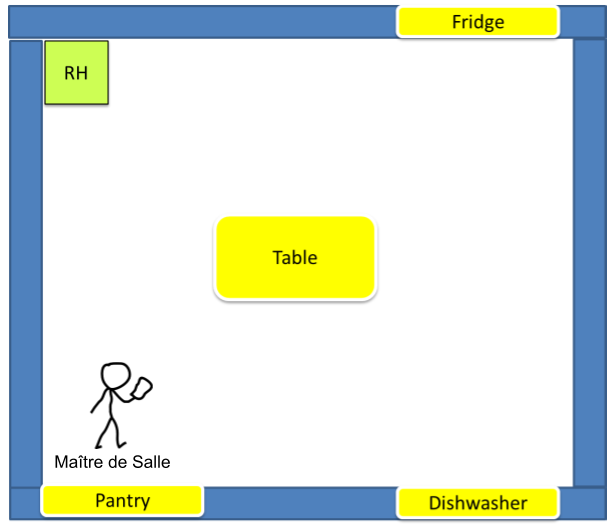
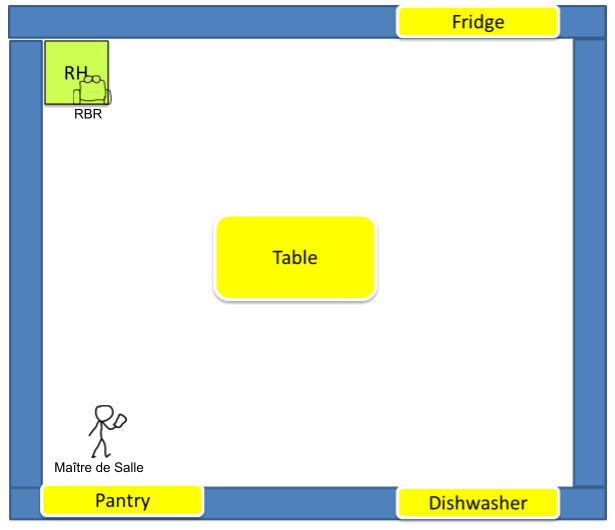
update tasks representations in scenario in Requirements Analysis

Changed region(s): [[0.0927, 0.6642, 0.278, 0.9057], [0.1236, 0.1208, 0.1854, 0.2415]]

diff --git a/userDocs/Analisi.html b/userDocs/Analisi.html
@@ -188,46 +188,40 @@ Test sugli stati delle entità ad ogni transizione del sistema.
 </ul>
 
 
-<h4>Scenario and Test Plans</h4>
+<h4>Scenario</h4>
 
-Here, it's illustrated a possible scenario of the system and a first planning of tests, that must be verified for the correct working of the final system, according to the requirements provided by the customer.
+Here, it's illustrated a possible scenario of the system.
 <br><br>
 <table>
 <tr>
 <th>Steps in the scenario</th>
 <th>Simplified representation of each step</th>
-<th>Test Plans for each step</th>
 </tr>
 <tr>
-	<td class="scenario"><ol><li>The <ks>room</ks> is empty, beside the <ks>Maître de Salle</ks>. The <ks>RBR</ks> is on its <ks>RH</ks>. The <ks>fridge</ks> and the <ks>pantry</ks> are embedded with a proper set of items; while the <ks>dishwasher</ks> is empty.</li></ol></td>
-	<td class="image"><img src="./utils/img/InitialScenario.png" alt="Initial scenario"></td>
-	<td>For this step, it's necessary to verify/test/check that/if the <ks>RBR</ks> is positioned on (the cell of???) its <ks>RH</ks>. (BISOGNA TESTARE LO STATO ANCHE DEGLI ALTRI ELEMENTI DELLA STRANZA??????)</td>
+	<td><ol><li>The <ks>room</ks> is empty, beside the <ks>Maître de Salle</ks>. The <ks>RBR</ks> is on its <ks>RH</ks>. The <ks>fridge</ks> and the <ks>pantry</ks> are embedded with a proper set of items; while the <ks>dishwasher</ks> is empty.</li></ol></td>
+	<td class="imageScenario"><img src="./utils/img/InitialScenario.png" alt="Initial scenario"></td>
 </tr>
 <tr>
-	<td class="scenario"><ol start="2"><li>The <ks>Maître de Salle</ks> sends the command <em>prepare</em> (for the <ks>task</ks> <ks>Prepare the room</ks>) to the <ks>RBR</ks> and wait. The <ks>RBR</ks> executes the <ks>task</ks> related to the command and at the end he returns to its <ks>RH</ks>.</li></ol></td>
-	<td class="image"><img src="./utils/img/InitialScenario.png" alt="Initial scenario"></td>
-	<td>For this step, it's necessary to verify/test/check that/if </td>
+	<td><ol start="2"><li>The <ks>Maître de Salle</ks> sends the command <em>prepare</em> (for the <ks>task</ks> <ks>Prepare the room</ks>) to the <ks>RBR</ks> and wait. The <ks>RBR</ks> executes the <ks>task</ks> related to the command and at the end he returns to its <ks>RH</ks>.</li></ol></td>
+	<td class="imageScenario"><img src="./utils/img/ScenarioPrepare.png" alt="Scenario 'Prepare the room'"></td>
 </tr>
 <tr>
-	<td class="scenario"><ol start="3"><li>The party starts and the <ks>room</ks> is opened to people: so now there are other obstacoles in the <ks>room</ks>. The <ks>Maître de Salle</ks> can sends at any time to <ks>RBR</ks> the command <em>addFood (food-code)</em> (for the <ks>task</ks> <ks>Add food</ks>). The <ks>RBR</ks> asks to <ks>fridge</ks> if it has the food specified by <ks>food-code</ks> and the <ks>fridge</ks> answers to <ks>RBR</ks>, via CoAP, with command <em>answer</em>. If the <ks>fridge</ks> doesn't contain that food, then the <ks>RBR</ks> sends a warning to the <ks>Maître de Salle</ks>; otherwise the <ks>RBR</ks> executes the <ks>task</ks> and then he returns to its <ks>RH</ks>.</li></ol></td>
-	<td class="image"><img src="./utils/img/InitialScenario.png" alt="Initial scenario"></td>
-	<td>For this step, it's necessary to verify/test/check that/if </td>
+	<td><ol start="3"><li>The party starts and the <ks>room</ks> is opened to people: so now there are other obstacoles in the <ks>room</ks>. The <ks>Maître de Salle</ks> can sends at any time to <ks>RBR</ks> the command <em>addFood (food-code)</em> (for the <ks>task</ks> <ks>Add food</ks>). The <ks>RBR</ks> asks to <ks>fridge</ks> if it has the food specified by <ks>food-code</ks> and the <ks>fridge</ks> answers to <ks>RBR</ks>, via CoAP, with command <em>answer</em>. If the <ks>fridge</ks> doesn't contain that food, then the <ks>RBR</ks> sends a warning to the <ks>Maître de Salle</ks>; otherwise the <ks>RBR</ks> executes the <ks>task</ks> and then he returns to its <ks>RH</ks>.</li></ol></td>
+	<td class="imageScenario"><img src="./utils/img/ScenarioAddFood.png" alt="Scenario 'Add food'"></td>
 </tr>
 <tr>
-	<td class="scenario"><ol start="4"><li>At the end of the party the <ks>room</ks> is empty again, beside the <ks>Maître de Salle</ks>. The <ks>Maître de Salle</ks> sends to <ks>RBR</ks> the command <em>clear</em> (for the <ks>task</ks> <ks>Clear the room</ks>) and wait. The <ks>RBR</ks> executes the <ks>task</ks> and then he returns to its <ks>RH</ks>.</li></ol></td>
-	<td class="image"><img src="./utils/img/InitialScenario.png" alt="Initial scenario"></td>
-	<td>For this step, it's necessary to verify/test/check that/if </td>
+	<td><ol start="4"><li>At the end of the party the <ks>room</ks> is empty again, beside the <ks>Maître de Salle</ks>. The <ks>Maître de Salle</ks> sends to <ks>RBR</ks> the command <em>clear</em> (for the <ks>task</ks> <ks>Clear the room</ks>) and wait. The <ks>RBR</ks> executes the <ks>task</ks> and then he returns to its <ks>RH</ks>.</li></ol></td>
+	<td class="imageScenario"><img src="./utils/img/ScenarioClear.png" alt="Scenario 'Clear the room'"></td>
 </tr>
 <tr>
-	<td class="scenario">At every time of the service:
+	<td>At every time of the service:
 	<ul>
 		<li>the <ks>Maître de Salle</ks> can use command <em>consult</em> to know the state of each element in the <ks>room</ks>. In this case, the <ks>fridge</ks> answers via CoAP, using the command <em>expose</em>, to show its content.</li>
 		<li>the <ks>Maître de Salle</ks> can use the command <em>stop</em> or <em>reactive</em> to stop or restart an activated <ks>task</ks>.</li>
 		<li>The <ks>RBR</ks> must <em>avoid</em> the obstacles.</li>
 	</ul>
 	</td>
-	<td class="image"><img src="./utils/img/InitialScenario.png" alt="Initial scenario"></td>
-	<td>For this step, it's necessary to verify/test/check that/if </td>
+	<td class="imageScenario"><img src="./utils/img/ScenarioConsult.png" alt="Scenario Consult"></td>
 </tr>
 </table>
 

diff --git a/userDocs/utils/style.css b/userDocs/utils/style.css
@@ -185,8 +185,9 @@ td.image {
 	text-align: center;
 }
 
-td.scenario {
-	width: 35%;
+td.imageScenario {
+	width: 20%;
+	text-align: center;
 }
 
 ol, ul, li {
